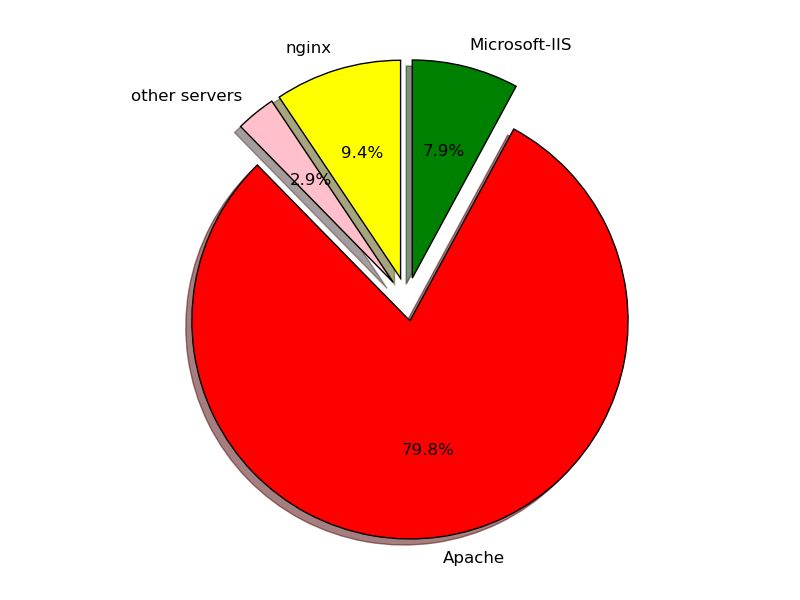
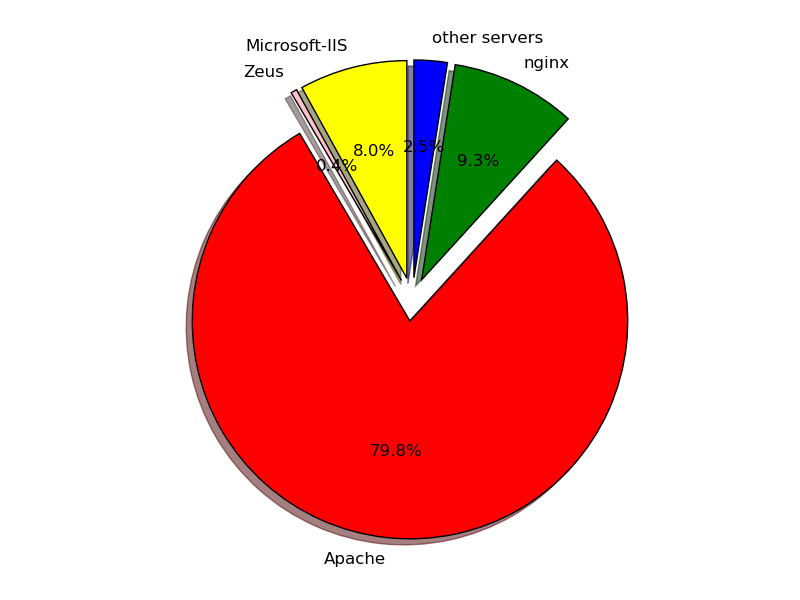
CrawlBGWeb solutions

diff --git a/Week7/Day1/crawl.py b/Week7/Day1/crawl.py
@@ -27,13 +27,13 @@ class CrawlBgWeb:
     def get_headers(self):
 
         all_links = self.parse_html()
-        server_names = ["Apache", "nginx", "OpenSSL", "Microsoft-IIS"]
+        server_names = ["Apache", "nginx", "Zeus", "Microsoft-IIS"]
         histogram = Histogram()
 
         for link in all_links:
             try:
                 if link is not None and "link.php?id=" in link:
-                    req = requests.head(self.url + link, timeout=2, allow_redirects=True)
+                    req = requests.head(self.url + link, timeout=3, allow_redirects=True)
                     get_server = req.headers["Server"]
                     print(get_server)
                     for servers in server_names:
@@ -49,14 +49,14 @@ class CrawlBgWeb:
                continue
         return histogram
 
-
-    def save_histogram(self, histogram):
+    @staticmethod
+    def save_histogram(histogram):
 
             with open("servers.json", "w") as f:
                 json.dump(histogram, f, indent=4)
 
-
-    def load_histogram(self,filename):
+    @staticmethod
+    def load_histogram(filename):
 
         with open(filename, "r") as f:
             data = json.loads(f.read())

diff --git a/Week7/Day1/plot.py b/Week7/Day1/plot.py
@@ -5,7 +5,7 @@ from crawl import CrawlBgWeb
 
 class Chart:
 
-    def make_chart(self):
+    def draw_chart(self):
         crawl = CrawlBgWeb()
         dict_histogram = crawl.load_histogram("servers.json")
         labels = []
@@ -14,8 +14,8 @@ class Chart:
             labels.append(servers)
             sizes.append(dict_histogram[servers])
 
-        colors = ['yellow', 'pink', 'red', 'green']
-        explode = (0.1, 0.1, 0.1, 0.1)
+        colors = ['yellow', 'pink', 'red', 'green','blue']
+        explode = (0.1, 0.1, 0.1, 0.1, 0.1)
 
         plt.pie(sizes, explode=explode, labels=labels, colors=colors,
             autopct='%1.1f%%', shadow=True, startangle=90)
@@ -23,5 +23,6 @@ class Chart:
         plt.axis('equal')
 
         plt.show()
+
 
 

diff --git a/Week7/Day1/histogram.py b/Week7/Day1/histogram.py
@@ -19,20 +19,3 @@ class Histogram:
        for server in self.list_servers:
             self.dict_servers[server] = self.count(server)
        return self.dict_servers
-"""
-def main():
-    h = Histogram()
-    h.add("Apache")
-    h.add("Apache")
-    h.add("nginx")
-    h.add("IIS")
-    h.add("nginx")
-    print(h.count("Apache"))
-    print(h.count("nginx"))
-    print(h.count("IIS"))
-    print(h.count("IBM Web Server"))
-    #print(h.get_dict())
-
-    if __name__ == "__main__":
-    main()
-"""

diff --git a/Week7/Day1/main.py b/Week7/Day1/main.py
@@ -7,11 +7,11 @@ from histogram import Histogram
 def main():
     chart = Chart()
     crawl = CrawlBgWeb()
-    #crawl.parse_html()
-    #histogram = crawl.get_headers().get_dict()
-    #crawl.save_histogram(histogram)
+    crawl.parse_html()
+    histogram = crawl.get_headers().get_dict()
+    crawl.save_histogram(histogram)
     crawl.load_histogram("servers.json")
-    chart.make_chart()
+    chart.draw_chart()
 
 if __name__ == "__main__":
     main()
